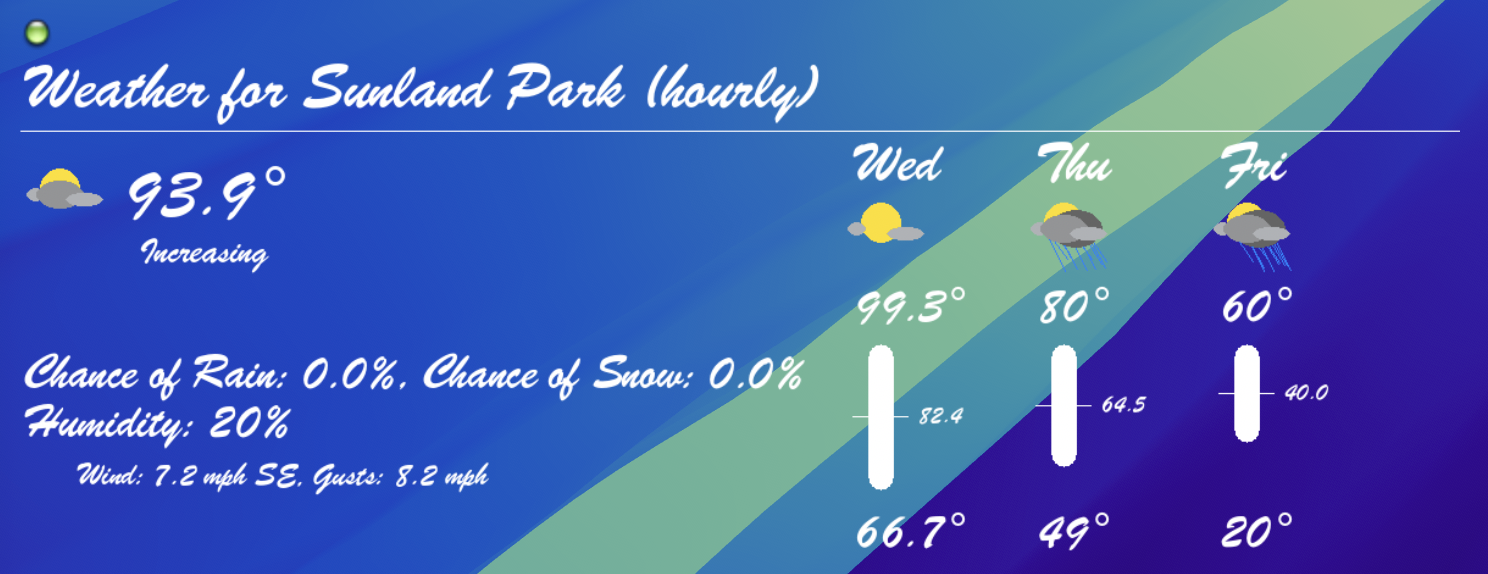
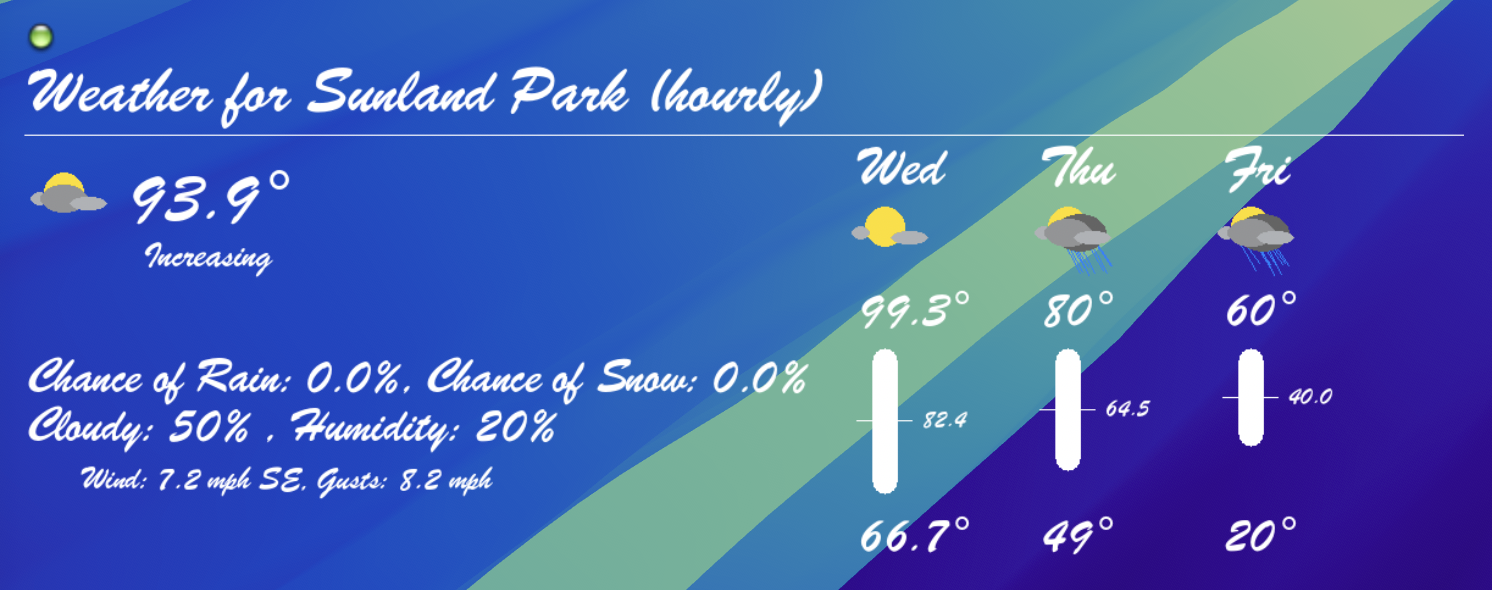
cloudiness

diff --git a/app/Console/Commands/GenerateWeatherImage.php b/app/Console/Commands/GenerateWeatherImage.php
@@ -179,7 +179,7 @@ class GenerateWeatherImage extends Command
 
         // Humidity
         $currentY += 40;
-        $humidityText = "Humidity: " . $this->current['humidity'] . "%";
+        $humidityText = "Cloudy: " . $this->current['cloud'] . "% , Humidity: " . $this->current['humidity'] . "%";
         imagettftext($image, $this->font_size-5, 0, $leftMargin, $currentY, $this->font_color, $this->font_family, $humidityText);
 
         // Wind
